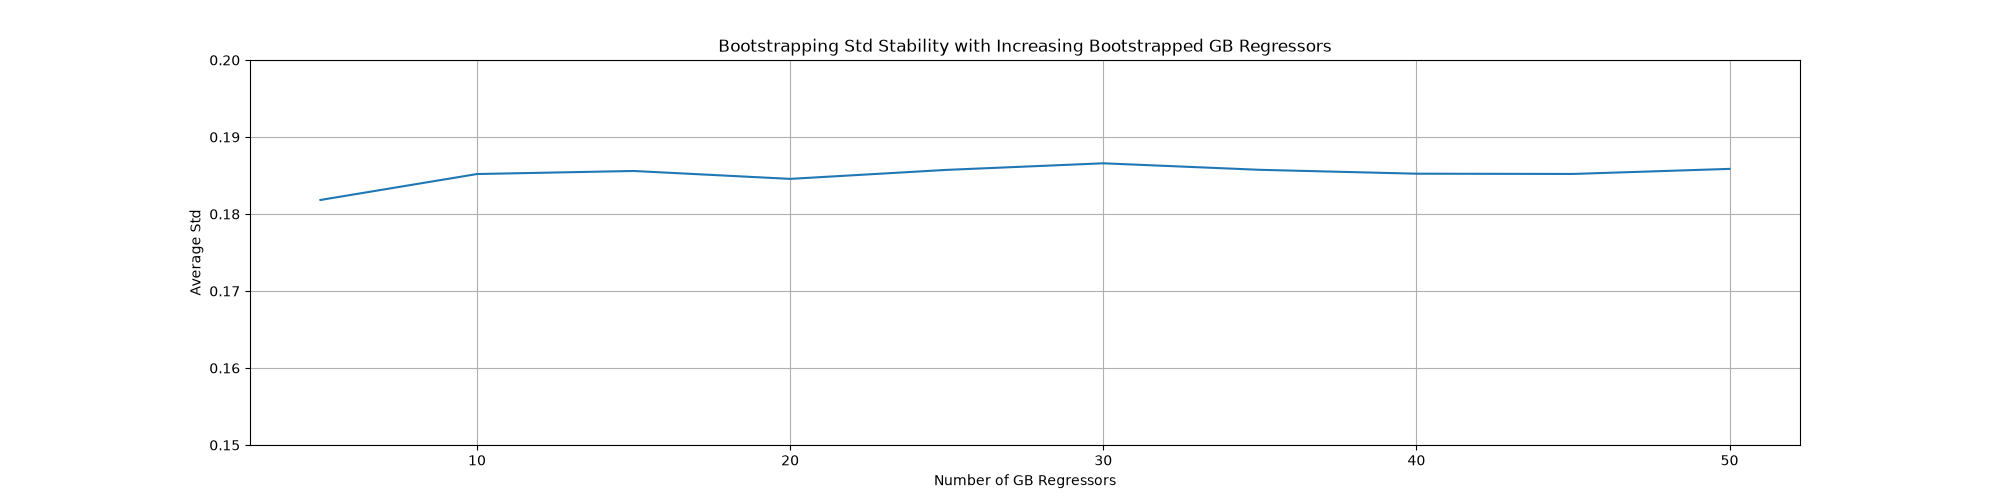
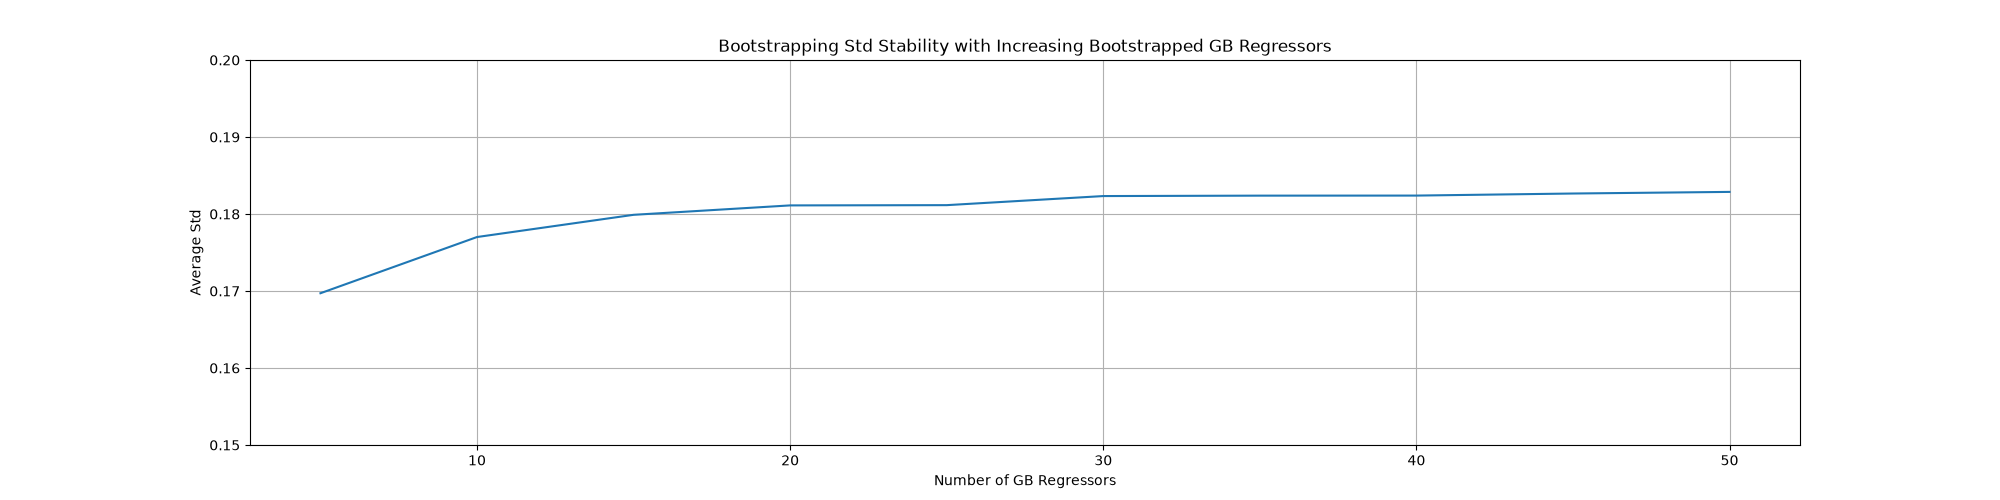
Add bootstrapped GB ensemble for RUL uncertainty quantification

diff --git a/src/ml/ensemble.py b/src/ml/ensemble.py
@@ -3,43 +3,49 @@ import numpy as np
 from sklearn.ensemble import GradientBoostingRegressor
 import matplotlib.pylab as plt
 
+np.random.seed(42) #global seed
+
 GB_PARAMETERS = {"max_depth": 3, "learning_rate": 0.1, "n_estimators": 100}
+GB_N_BOOTSTRAP_MODELS = 30
 tools = ["Epi","Oxidation","Photo","Etch","Diffusion","Metal Deposition"]
 
-def build_ensemble(training_df, testing_df, n_bootstrapping_models:int, gb_parms: dict =  GB_PARAMETERS) -> list:
+def build_ensemble(training_df, testing_df, n_bootstrapping_models:int = GB_N_BOOTSTRAP_MODELS, gb_parms: dict =  GB_PARAMETERS) -> list:
     models = []
-    n_values = []
+    predictions = []
     final_means = []
     final_std = []
-    avg_std = []
     for i in range(n_bootstrapping_models):
         resamples = training_df.sample(frac=1.0, replace=True)
         model = GradientBoostingRegressor(**gb_parms)
         model.fit(resamples[["Input 1", "Input 2"]], resamples["RUL"])
-        models.append(model)
-    for k in range(int(n_bootstrapping_models/5)+1):
-        constant = 5*k
-        n_values.append(constant)
-        predictions = []
-        for j in range(constant):
-            predictions.append(models[j].predict(testing_df[["Input 1","Input 2"]]))
-        ensemble_metrics = pd.DataFrame(predictions)
-        final_means.append(ensemble_metrics.mean())
-        final_std.append(ensemble_metrics.std())
-    avg_std = [s.mean() for s in final_std]
-    return final_means, final_std, avg_std, n_values
+        models.append(model)        
+    for model in models:
+        predictions.append(model.predict(testing_df[["Input 1","Input 2"]]))
+    ensemble_metrics = pd.DataFrame(predictions)
+    final_means.append(ensemble_metrics.mean())
+    final_std.append(ensemble_metrics.std())
+    return final_means, final_std, 
 
-train_data = pd.read_csv(f"data/processed/Epi_training.csv")
-testing_data = pd.read_csv(f"data/processed/Epi_test.csv")
+comparisons = {}
 
-_,_,avg,n = build_ensemble(train_data,testing_data,50)
+for tool in tools:
 
-plt.figure(figsize=(20, 5))
-plt.plot(n,avg)
-plt.title("Bootstrapping Std Stability with Increasing Bootstrapped GB Regressors")
-plt.xlabel("Number of GB Regressors")
-plt.ylabel("Average Std")
-plt.grid(True)
-plt.ylim(0.15, 0.20)
-plt.savefig("notebooks/convergence_graph.png")
-plt.show()
+    average_std = []
+
+    train_data = pd.read_csv(f"data/processed/{tool}_training.csv")
+    testing_data = pd.read_csv(f"data/processed/{tool}_test.csv")
+
+    means, std = build_ensemble(train_data,testing_data)
+    compare = testing_data
+    means[0].name = "Predicted RUL Mean"
+    std[0].name = "Predicted RUL Std"
+    compare = pd.concat([compare,means[0]],axis=1)
+    compare = pd.concat([compare,std[0]],axis=1)
+    compare_low = compare[compare["RUL"] < 5]
+    compare_high = compare[(compare["RUL"] >= 5) & (compare["RUL"] < 16)]
+    average_std.append(float(compare_low["Predicted RUL Std"].mean()))
+    average_std.append(float(compare_high["Predicted RUL Std"].mean()))
+    comparisons[f"{tool}"] = average_std
+
+print(comparisons)
+

diff --git a/src/visualisation/convergence_study_bootstrap.py b/src/visualisation/convergence_study_bootstrap.py
@@ -1,0 +1,45 @@
+import pandas as pd
+import numpy as np
+from sklearn.ensemble import GradientBoostingRegressor
+import matplotlib.pylab as plt
+
+GB_PARAMETERS = {"max_depth": 3, "learning_rate": 0.1, "n_estimators": 100}
+tools = ["Epi","Oxidation","Photo","Etch","Diffusion","Metal Deposition"]
+
+def converge_study(training_df, testing_df, n_bootstrapping_models:int, gb_parms: dict =  GB_PARAMETERS) -> list:
+    models = []
+    n_values = []
+    final_means = []
+    final_std = []
+    avg_std = []
+    for i in range(n_bootstrapping_models):
+        resamples = training_df.sample(frac=1.0, replace=True)
+        model = GradientBoostingRegressor(**gb_parms)
+        model.fit(resamples[["Input 1", "Input 2"]], resamples["RUL"])
+        models.append(model)
+    for k in range(int(n_bootstrapping_models/5)+1):
+        constant = 5*k
+        n_values.append(constant)
+        predictions = []
+        for j in range(constant):
+            predictions.append(models[j].predict(testing_df[["Input 1","Input 2"]]))
+        ensemble_metrics = pd.DataFrame(predictions)
+        final_means.append(ensemble_metrics.mean())
+        final_std.append(ensemble_metrics.std())
+    avg_std = [s.mean() for s in final_std]
+    return final_means, final_std, avg_std, n_values
+
+train_data = pd.read_csv(f"data/processed/Epi_training.csv")
+testing_data = pd.read_csv(f"data/processed/Epi_test.csv")
+
+_,_,avg,n = converge_study(train_data,testing_data,50)
+
+plt.figure(figsize=(20, 5))
+plt.plot(n,avg)
+plt.title("Bootstrapping Std Stability with Increasing Bootstrapped GB Regressors")
+plt.xlabel("Number of GB Regressors")
+plt.ylabel("Average Std")
+plt.grid(True)
+plt.ylim(0.15, 0.20)
+plt.savefig("notebooks/convergence_graph.png")
+plt.show()
